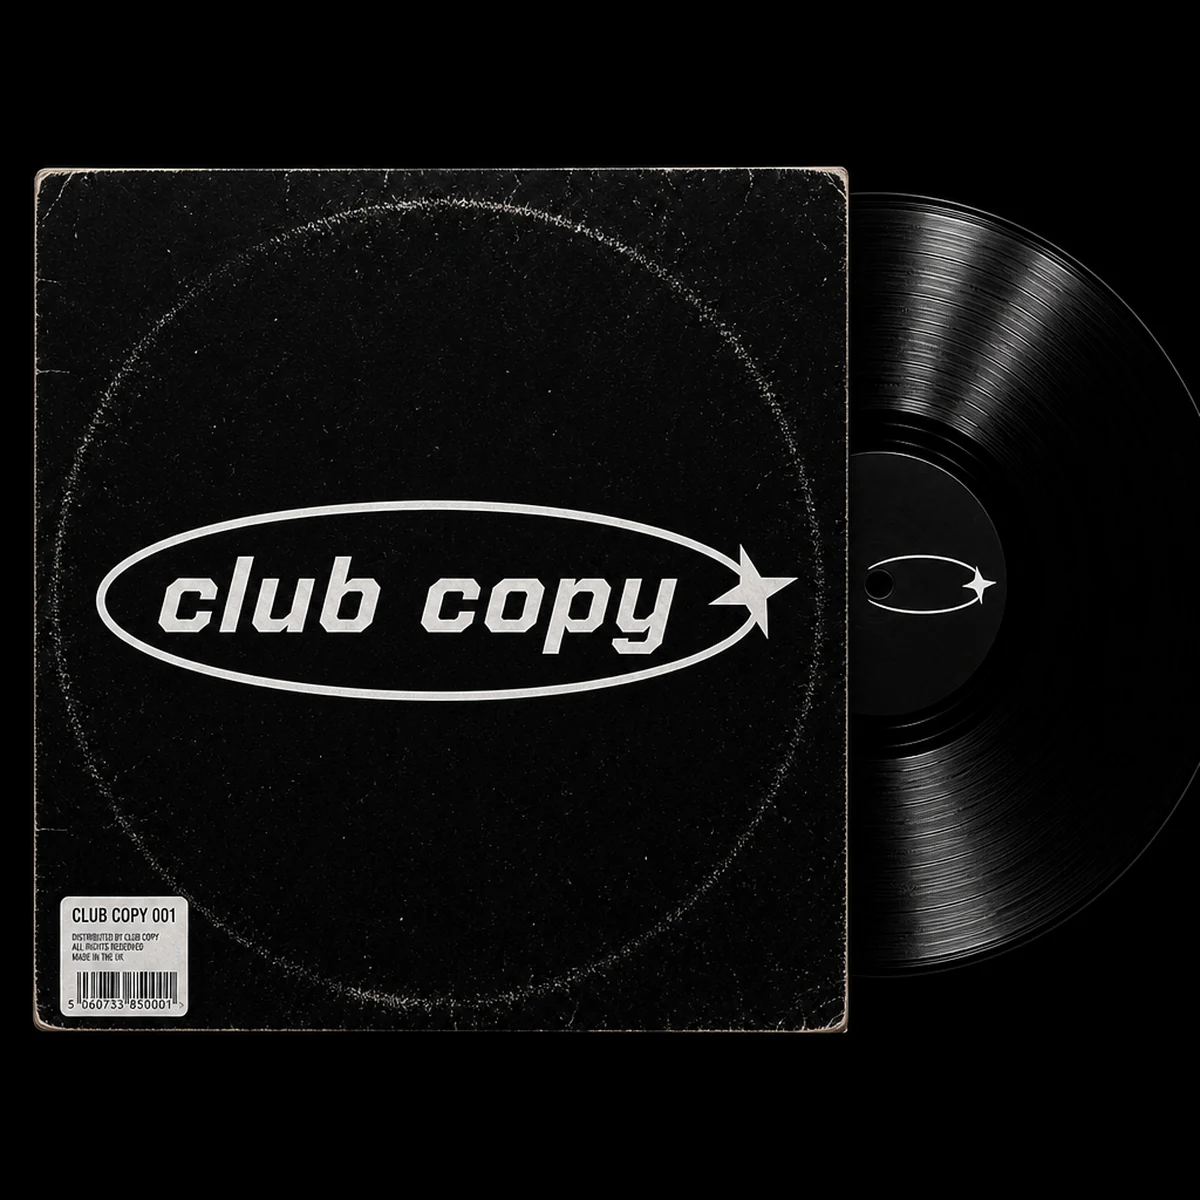
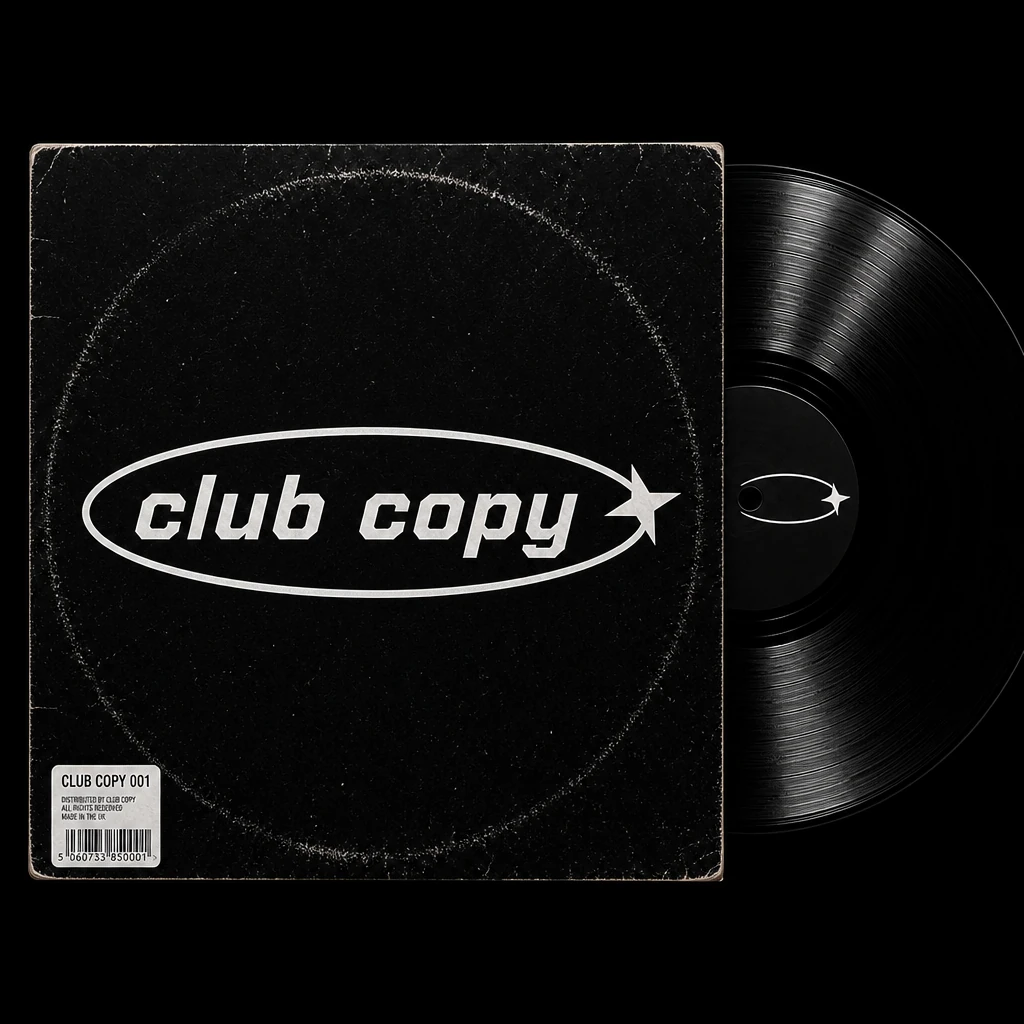
Shop: stock vinyl photo for all music products
Use the Club Copy sleeve stock shot across vinyl and the What If
bundle, drop the layered disc mockups, and keep cart thumbnails in sync.

diff --git a/merch.html b/merch.html
@@ -59,14 +59,23 @@
       .shop-hero-logo { width: min(440px, 42vw); }
       .shop-hero-inner { gap: 22px; padding: 40px 0 16px; }
     }
-    /* Default music sleeve — full-bleed photo, no padding crop */
-    #music .product-visual.is-default {
+    /* Music stock vinyl — full-bleed black sleeve photo */
+    #music .product-visual.is-stock {
       background: #050505;
-      border-color: rgba(17,17,17,.12);
+      border-color: rgba(17,17,17,.14);
+      box-shadow: 0 14px 36px rgba(17,17,17,.08);
     }
-    #music .product-visual.is-default img {
+    #music .product-visual.is-stock img {
       object-fit: cover;
+      object-position: center;
       padding: 0;
+    }
+    #music .product-visual.is-stock::after {
+      content: '';
+      position: absolute;
+      inset: 0;
+      pointer-events: none;
+      box-shadow: inset 0 0 0 1px rgba(255,255,255,.04);
     }
 
     /* Section anchors (clear sticky jump) -------------------------------------- */
@@ -114,7 +123,7 @@
     .product:nth-child(3) { transition-delay: .1s; }
     .product:nth-child(4) { transition-delay: .15s; }
     @media (hover:hover) {
-      .product:hover .product-visual img:not(.vinyl-disc) { transform: scale(1.02); }
+      .product:hover .product-visual img { transform: scale(1.02); }
     }
 
     .product-visual {
@@ -143,61 +152,10 @@
       mix-blend-mode: normal;
       transition: transform .8s var(--ease);
     }
-    #music .product-visual img {
+    #music .product-visual:not(.is-stock) img {
       padding: 4%;
       mix-blend-mode: normal;
     }
-
-    /* Layered vinyl — sleeve + sliding disc ---------------------------------- */
-    .vinyl-pack {
-      position: relative;
-      background: #F2F0EC;
-      overflow: hidden;
-    }
-    .vinyl-pack .vinyl-disc {
-      position: absolute;
-      width: 72%;
-      aspect-ratio: 1;
-      top: 14%;
-      left: 30%;
-      border-radius: 50%;
-      object-fit: cover;
-      padding: 0 !important;
-      mix-blend-mode: normal !important;
-      z-index: 1;
-      transition: transform .55s cubic-bezier(.22,1,.36,1);
-      filter: drop-shadow(0 8px 18px rgba(0,0,0,.22));
-    }
-    .vinyl-pack .vinyl-sleeve {
-      position: relative;
-      z-index: 2;
-      width: 72% !important;
-      height: auto !important;
-      aspect-ratio: 1;
-      margin: 14% auto;
-      padding: 0 !important;
-      mix-blend-mode: normal !important;
-      object-fit: cover;
-      border-radius: 3px;
-      box-shadow: 0 10px 28px rgba(17,17,17,.14);
-      background: #0a0a0a;
-    }
-    /* Dubplate / label covers — keep the circle small on a black sleeve */
-    .vinyl-pack .vinyl-sleeve.is-label {
-      object-fit: contain;
-      object-position: center;
-      padding: 22% !important;
-      box-sizing: border-box;
-      background: #0a0a0a;
-    }
-    @media (hover:hover) {
-      .product:hover .vinyl-disc { transform: translateX(16%) rotate(14deg); }
-      .product:hover .vinyl-pack .vinyl-sleeve { transform: none; }
-    }
-    @media (prefers-reduced-motion: reduce) {
-      .vinyl-pack .vinyl-disc { transition: none; }
-    }
-
 
     /* Dark nav over chrome shop hero ----------------------------------------- */
     body.shop-page .nav {
@@ -456,13 +414,12 @@
           <p class="eyebrow">01</p>
           <h2>Music</h2>
         </div>
-        <p class="section-note">Vinyl and the essentials around it.</p>
+        <p class="section-note">12″ black vinyl and the essentials around it.</p>
       </header>
       <section class="shop" aria-label="Music">
         <article class="product merch-card" data-sku="sm-vinyl-what-if" data-name="What If — Vinyl" data-price="32">
-          <div class="product-visual vinyl-pack">
-            <img class="vinyl-disc" src="merch/club-copy/prod-vinyl-disc.webp" alt="" aria-hidden="true"/>
-            <img class="vinyl-sleeve is-label" src="what-if-cover.webp" alt="What If vinyl sleeve"/>
+          <div class="product-visual is-stock">
+            <img src="merch/club-copy/prod-vinyl-default.webp" alt="What If — Club Copy vinyl" width="1024" height="1024"/>
           </div>
           <div class="product-body">
             <div class="product-top">
@@ -478,9 +435,8 @@
         </article>
 
         <article class="product merch-card" data-sku="sm-vinyl-together" data-name="Together — Vinyl" data-price="32">
-          <div class="product-visual vinyl-pack">
-            <img class="vinyl-disc" src="merch/club-copy/prod-vinyl-disc.webp" alt="" aria-hidden="true" loading="lazy"/>
-            <img class="vinyl-sleeve is-label" src="together-cover.webp" alt="Together vinyl sleeve" loading="lazy"/>
+          <div class="product-visual is-stock">
+            <img src="merch/club-copy/prod-vinyl-default.webp" alt="Together — Club Copy vinyl" loading="lazy" width="1024" height="1024"/>
           </div>
           <div class="product-body">
             <div class="product-top">
@@ -496,8 +452,8 @@
         </article>
 
         <article class="product merch-card" data-sku="sm-vinyl-inlet-knight" data-name="Inlet Knight — Vinyl" data-price="36">
-          <div class="product-visual is-default">
-            <img src="merch/club-copy/prod-vinyl-default.webp" alt="Inlet Knight vinyl" loading="lazy" width="1200" height="1200"/>
+          <div class="product-visual is-stock">
+            <img src="merch/club-copy/prod-vinyl-default.webp" alt="Inlet Knight — Club Copy vinyl" loading="lazy" width="1024" height="1024"/>
           </div>
           <div class="product-body">
             <div class="product-top">
@@ -513,8 +469,8 @@
         </article>
 
         <article class="product merch-card" data-sku="sm-vinyl-at-home" data-name="At Home — Vinyl" data-price="28">
-          <div class="product-visual is-default">
-            <img src="at_home.webp" alt="At Home vinyl" loading="lazy" width="1024" height="1024"/>
+          <div class="product-visual is-stock">
+            <img src="merch/club-copy/prod-vinyl-default.webp" alt="At Home — Club Copy vinyl" loading="lazy" width="1024" height="1024"/>
           </div>
           <div class="product-body">
             <div class="product-top">
@@ -530,8 +486,8 @@
         </article>
 
         <article class="product merch-card" data-sku="sm-bundle-what-if-tee" data-name="What If Bundle — Vinyl + Tee" data-price="54">
-          <div class="product-visual">
-            <img src="merch/club-copy/prod-bundle-vinyl-tee.webp" alt="What If vinyl and Micro Tee bundle" loading="lazy"/>
+          <div class="product-visual is-stock">
+            <img src="merch/club-copy/prod-vinyl-default.webp" alt="What If Bundle — vinyl and tee" loading="lazy" width="1024" height="1024"/>
           </div>
           <div class="product-body">
             <div class="product-top">
@@ -849,7 +805,7 @@ document.querySelectorAll('.merch-add').forEach(function (btn) {
     var card = btn.closest('.merch-card');
     var colourBtn = card.querySelector('.merch-opt.selected[data-group$="-colour"]');
     var sizeBtn = card.querySelector('.merch-opt.selected[data-group$="-size"]');
-    var img = card.querySelector('.vinyl-sleeve') || card.querySelector('.product-visual img:not(.vinyl-disc)');
+    var img = card.querySelector('.product-visual img');
     var item = {
       sku: card.dataset.sku,
       name: card.dataset.name,

diff --git a/inlet-knight.html b/inlet-knight.html
@@ -589,7 +589,7 @@ loadTrack(0, false);
 
   buyBtn.addEventListener('click', function() {
     if (currentFmt === 'vinyl') {
-      if (window.VCRCart) VCRCart.add({ sku: 'sm-vinyl-inlet-knight', name: 'Inlet Knight — Vinyl', price: 36, image: 'inlet-knight-cover.webp', qty: 1, id: 'sm-vinyl-inlet-knight' });
+      if (window.VCRCart) VCRCart.add({ sku: 'sm-vinyl-inlet-knight', name: 'Inlet Knight — Vinyl', price: 36, image: 'merch/club-copy/prod-vinyl-default.webp', qty: 1, id: 'sm-vinyl-inlet-knight' });
       var orig = buyBtn.textContent;
       buyBtn.textContent = 'Added';
       setTimeout(function() { buyBtn.textContent = orig; }, 2000);

diff --git a/together.html b/together.html
@@ -463,7 +463,7 @@ loadTrack(0, false);
 
   buyBtn.addEventListener('click', () => {
     if (currentFmt === 'vinyl') {
-      if (window.VCRCart) VCRCart.add({ sku: 'sm-vinyl-together', name: 'Together \u2014 Vinyl', price: 32, image: 'together-cover.webp', qty: 1, id: 'sm-vinyl-together' });
+      if (window.VCRCart) VCRCart.add({ sku: 'sm-vinyl-together', name: 'Together \u2014 Vinyl', price: 32, image: 'merch/club-copy/prod-vinyl-default.webp', qty: 1, id: 'sm-vinyl-together' });
       const orig = buyBtn.textContent;
       buyBtn.textContent = 'Added \u2713';
       setTimeout(() => { buyBtn.textContent = orig; }, 2000);

diff --git a/what-if.html b/what-if.html
@@ -443,7 +443,7 @@ loadTrack(0, false);
 
   buyBtn.addEventListener('click', () => {
     if (currentFmt === 'vinyl') {
-      if (window.VCRCart) VCRCart.add({ sku: 'sm-vinyl-what-if', name: 'What If \u2014 Vinyl', price: 32, image: 'what-if-cover.webp', qty: 1, id: 'sm-vinyl-what-if' });
+      if (window.VCRCart) VCRCart.add({ sku: 'sm-vinyl-what-if', name: 'What If \u2014 Vinyl', price: 32, image: 'merch/club-copy/prod-vinyl-default.webp', qty: 1, id: 'sm-vinyl-what-if' });
       const orig = buyBtn.textContent;
       buyBtn.textContent = 'Added \u2713';
       setTimeout(() => { buyBtn.textContent = orig; }, 2000);

diff --git a/home.html b/home.html
@@ -448,7 +448,7 @@ loadTrack(0, false);
 
   buyBtn.addEventListener('click', function() {
     if (currentFmt === 'vinyl') {
-      if (window.VCRCart) VCRCart.add({ sku: 'sm-vinyl-at-home', name: 'At Home — Vinyl', price: 28, image: 'at_home.webp', qty: 1, id: 'sm-vinyl-at-home' });
+      if (window.VCRCart) VCRCart.add({ sku: 'sm-vinyl-at-home', name: 'At Home — Vinyl', price: 28, image: 'merch/club-copy/prod-vinyl-default.webp', qty: 1, id: 'sm-vinyl-at-home' });
       var orig = buyBtn.textContent;
       buyBtn.textContent = 'Added';
       setTimeout(function() { buyBtn.textContent = orig; }, 2000);
